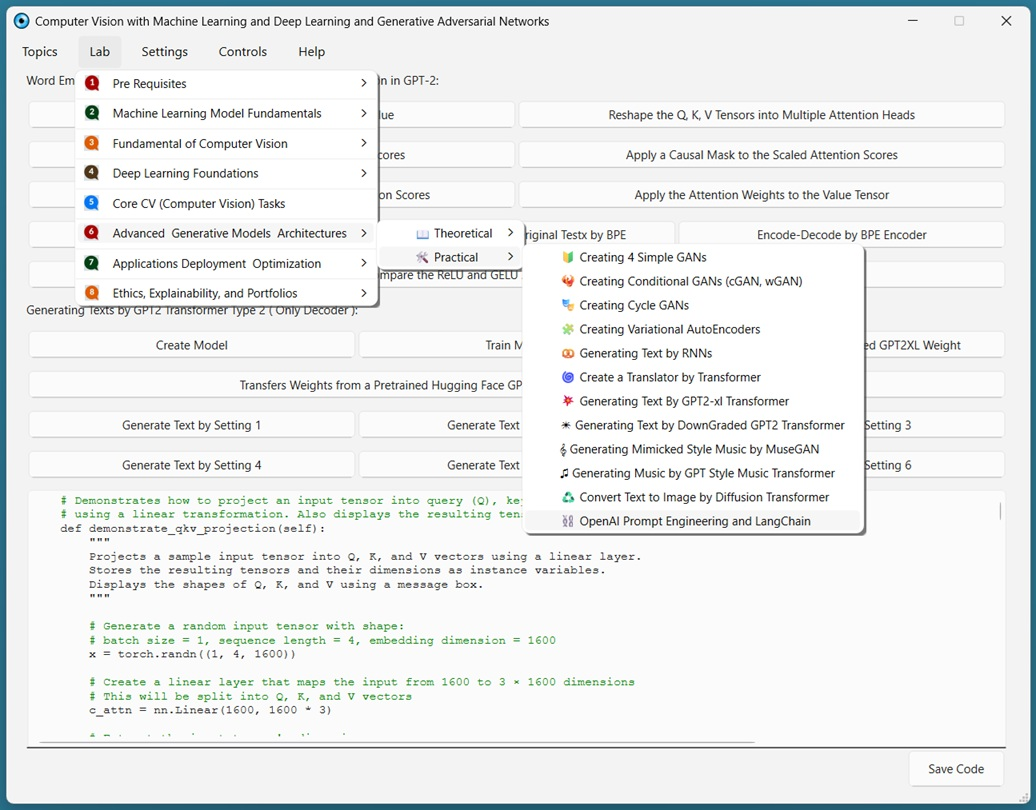
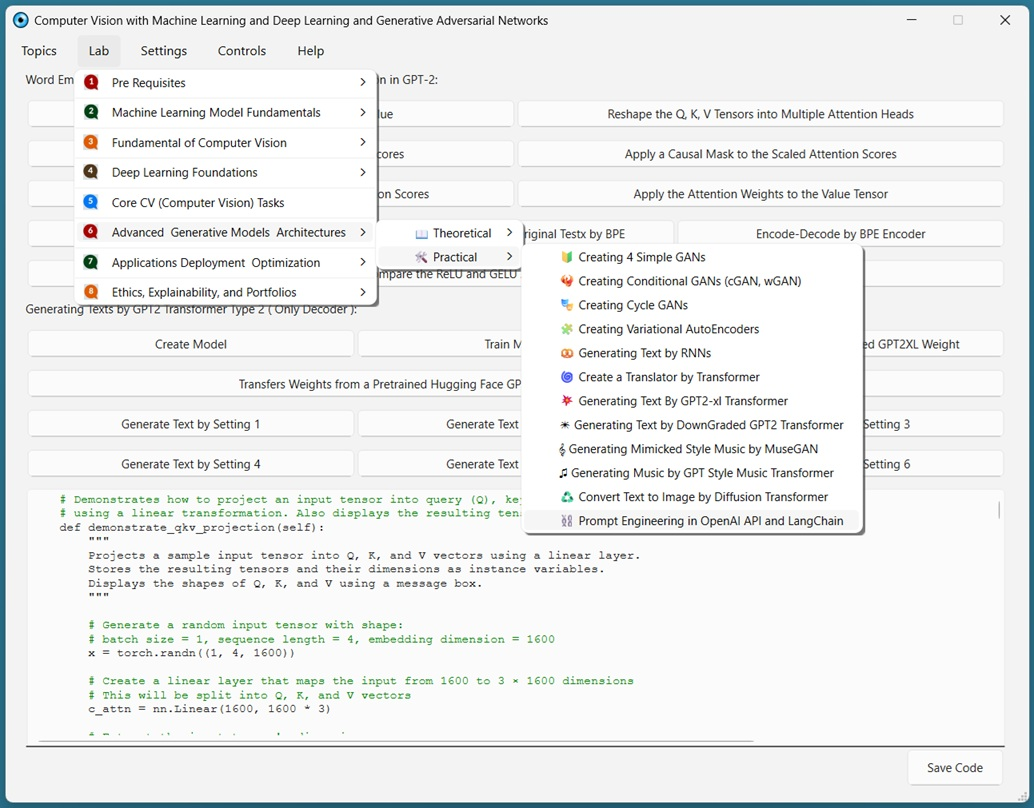
Menu Refined

diff --git a/app.py b/app.py
@@ -123,7 +123,7 @@ class MainWindow(QMainWindow):
         self.action_GeneratingMimickedStyleMusicByMuseGAN.setText(_translate("MainWindow","𝄞 Generating Mimicked Style Music by MuseGAN")) 
         self.action_GeneratingMusicByGPTStyleMusicTransformer.setText(_translate("MainWindow","♫ Generating Music by GPT Style Music Transformer"))
         self.action_TextToImageByDiffusion.setText(_translate("MainWindow","♻ Convert Text to Image by Diffusion Transformer"))
-        self.action_OpenAIPromptEngineeringLangChain.setText(_translate("MainWindow","⛓ OpenAI Prompt Engineering and LangChain"))
+        self.action_OpenAIPromptEngineeringLangChain.setText(_translate("MainWindow","⛓ Prompt Engineering in OpenAI API and LangChain"))
 
     def PrepareCancelTraining(self):
         self.CreateSimpleCNNHandler.CancelTraining()
